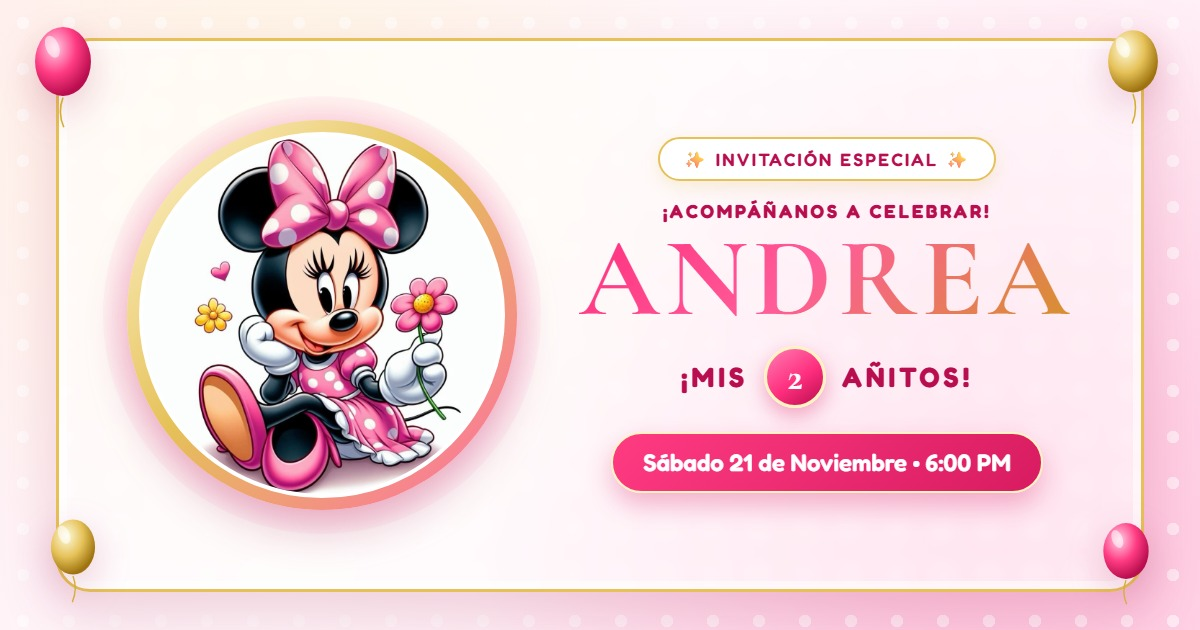
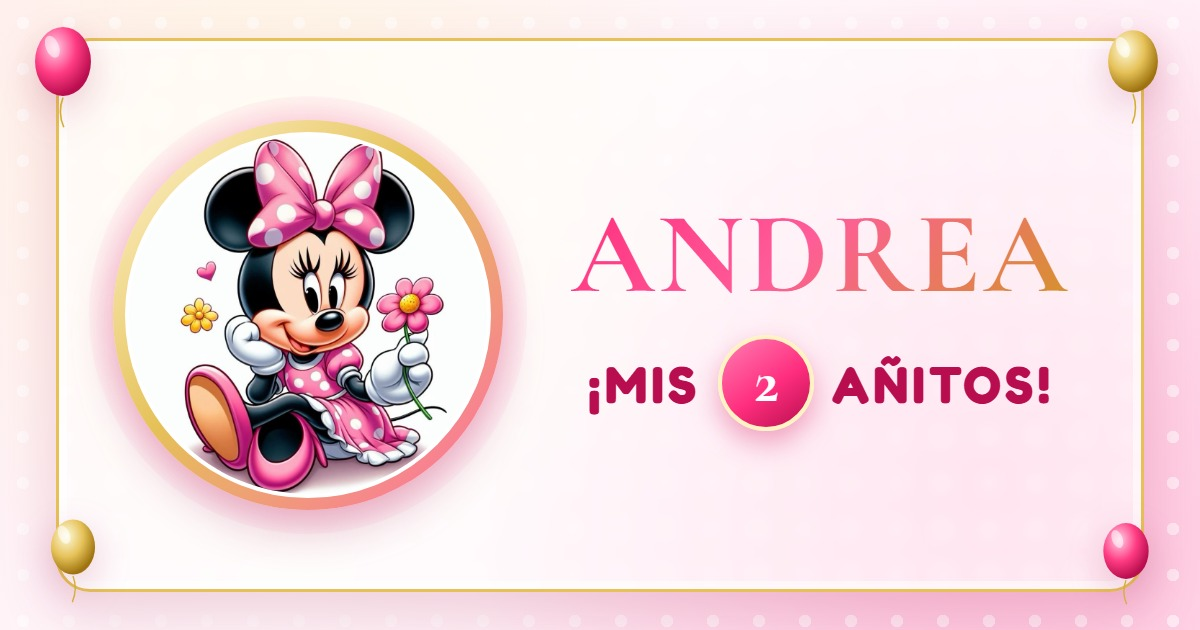
style: simplificar y agrandar texto ANDREA y MIS 2 ANITOS en og-image

Changed region(s): [[0.0617, 0.181, 0.8942, 0.8143]]

diff --git a/index.html b/index.html
@@ -13,13 +13,13 @@
   <meta property="og:url" content="https://arcano3ai.github.io/INVITACION-ANDREA-/">
   <meta property="og:title" content="🎀 Andrea — ¡Mis 2 Añitos! | Invitación Especial">
   <meta property="og:description" content="Tienes una invitación especial para celebrar los 2 añitos de Andrea. Sábado 21 de noviembre • 6:00 PM.">
-  <meta property="og:image" content="https://arcano3ai.github.io/INVITACION-ANDREA-/assets/og-image.jpg">
+  <meta property="og:image" content="https://arcano3ai.github.io/INVITACION-ANDREA-/assets/og-image.jpg?v=2">
   <meta property="og:image:type" content="image/jpeg">
   <meta property="og:image:width" content="1200">
   <meta property="og:image:height" content="630">
   <meta property="og:image:alt" content="Invitación especial de Andrea - ¡Mis 2 Añitos! Sábado 21 de noviembre">
   <meta name="twitter:card" content="summary_large_image">
-  <meta name="twitter:image" content="https://arcano3ai.github.io/INVITACION-ANDREA-/assets/og-image.jpg">
+  <meta name="twitter:image" content="https://arcano3ai.github.io/INVITACION-ANDREA-/assets/og-image.jpg?v=2">
 
   <!-- Tipografías Google Fonts: Elegante infantil + Script festivo + Sans legible -->
   <link rel="preconnect" href="https://fonts.googleapis.com">
